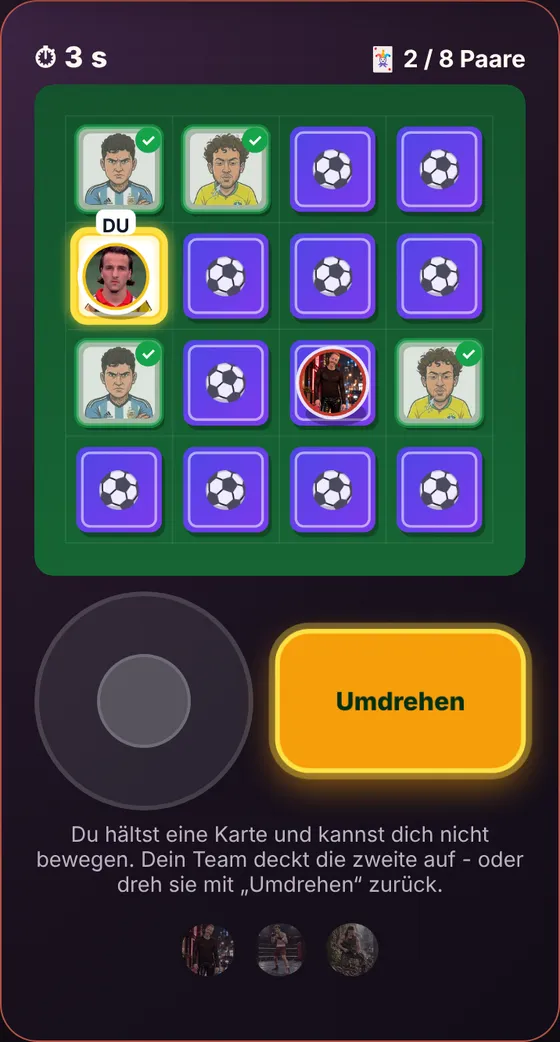
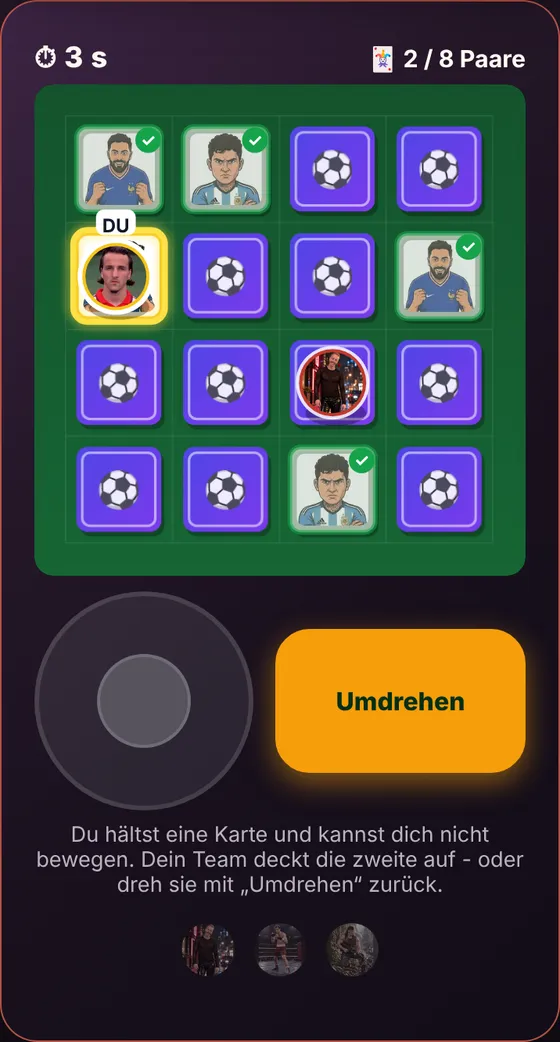
v386: Memory: fluessigerer Joystick (schneller auf Tempo, Kartenrueckseiten vorgezeichnet, keine Dauer-Animation), Aufdecken-Knopf ohne gelben Rand, Screenshots neu
Claude-Session: https://claude.ai/code/session_01Bq3j1UmgmmQRjdUKFtX7an

diff --git a/spiele/memory/spiel.js b/spiele/memory/spiel.js
@@ -41,7 +41,7 @@ const STANDARD_DRILLINGE = 6;
 // Spalten je nach Kartenzahl: 4 bei Paaren, bei Drillingen 5/6/6 (15/18/21 Karten)
 function spaltenFuer(anzahl) { return anzahl === 15 ? 5 : anzahl === 18 || anzahl === 21 ? 6 : SPALTEN; }
 const MOTIVE = 22;            // bilder/memory/f01.webp ... f22.webp
-const BILD_VERSION = "385";
+const BILD_VERSION = "386";
 const TEMPO = 2.7;            // Zellen pro Sekunde
 const KARTE = 0.8;            // Kartenkantenlänge in Zellen
 const FIGUR_R = 0.3;          // Figurenradius in Zellen
@@ -906,7 +906,10 @@ function baueSpielfeld(anordnung) {
   const knopf = $("mm-aktion");
   const hinweis = $("mm-hinweis");
   const kreuz = $("mm-kreuz");
-  const ctx = canvas.getContext("2d");
+  let ctx = canvas.getContext("2d");
+  const hauptCtx = ctx;
+  let rueckSprite = null;       // einmal vorgezeichnete Kartenrückseite (schneller als jedes Bild neu zu malen)
+  const SPR_RAND = 6;
   const ac = new AbortController();
   const sig = { signal: ac.signal };
 
@@ -951,6 +954,7 @@ function baueSpielfeld(anordnung) {
     canvas.style.width = W + "px";
     canvas.style.height = H + "px";
     ctx.setTransform(dpr, 0, 0, dpr, 0, 0);
+    baueRueckSprite();
     gezeichnetKey = "";
   }
 
@@ -1130,6 +1134,39 @@ function baueSpielfeld(anordnung) {
     ctx.arcTo(px, py, px + w, py, r);
     ctx.closePath();
   }
+  function zeichneRueckseite(px, py, s, r) {
+    ctx.fillStyle = "rgba(0,0,0,0.28)";
+    rundRechteck(px + 2, py + 3, s, s, r);
+    ctx.fill();
+    const g = ctx.createLinearGradient(px, py, px + s, py + s);
+    g.addColorStop(0, "#4f46e5");
+    g.addColorStop(1, "#7c3aed");
+    ctx.fillStyle = g;
+    rundRechteck(px, py, s, s, r);
+    ctx.fill();
+    ctx.strokeStyle = "rgba(255,255,255,0.55)";
+    ctx.lineWidth = Math.max(1.5, s * 0.03);
+    rundRechteck(px + s * 0.07, py + s * 0.07, s * 0.86, s * 0.86, r * 0.7);
+    ctx.stroke();
+    ctx.fillStyle = "rgba(255,255,255,0.9)";
+    ctx.font = `${Math.round(s * 0.42)}px system-ui, "Apple Color Emoji", "Segoe UI Emoji", sans-serif`;
+    ctx.textAlign = "center";
+    ctx.textBaseline = "middle";
+    ctx.fillText("⚽", px + s / 2, py + s / 2 + s * 0.02);
+  }
+  function baueRueckSprite() {
+    const dpr = window.devicePixelRatio || 1;
+    const sz = KARTE * c;
+    const sc = document.createElement("canvas");
+    sc.width = Math.ceil((sz + 2 * SPR_RAND) * dpr);
+    sc.height = sc.width;
+    const sctx = sc.getContext("2d");
+    sctx.setTransform(dpr, 0, 0, dpr, 0, 0);
+    ctx = sctx;
+    zeichneRueckseite(SPR_RAND, SPR_RAND, sz, sz * 0.13);
+    ctx = hauptCtx;
+    rueckSprite = sc;
+  }
   function zeichneKarte(idx, z, lage) {
     const sp = idx % SPALTEN, ze = Math.floor(idx / SPALTEN);
     const s = KARTE * c;
@@ -1139,27 +1176,13 @@ function baueSpielfeld(anordnung) {
     const besitzer = z.offen.get(idx);
     const offen = gefunden || besitzer !== undefined;
     ctx.save();
-    // Schatten
-    ctx.fillStyle = "rgba(0,0,0,0.28)";
-    rundRechteck(px + 2, py + 3, s, s, r);
-    ctx.fill();
     if (!offen) {
-      const g = ctx.createLinearGradient(px, py, px + s, py + s);
-      g.addColorStop(0, "#4f46e5");
-      g.addColorStop(1, "#7c3aed");
-      ctx.fillStyle = g;
-      rundRechteck(px, py, s, s, r);
-      ctx.fill();
-      ctx.strokeStyle = "rgba(255,255,255,0.55)";
-      ctx.lineWidth = Math.max(1.5, s * 0.03);
-      rundRechteck(px + s * 0.07, py + s * 0.07, s * 0.86, s * 0.86, r * 0.7);
-      ctx.stroke();
-      ctx.fillStyle = "rgba(255,255,255,0.9)";
-      ctx.font = `${Math.round(s * 0.42)}px system-ui, "Apple Color Emoji", "Segoe UI Emoji", sans-serif`;
-      ctx.textAlign = "center";
-      ctx.textBaseline = "middle";
-      ctx.fillText("⚽", px + s / 2, py + s / 2 + s * 0.02);
+      if (rueckSprite) ctx.drawImage(rueckSprite, px - SPR_RAND, py - SPR_RAND, s + 2 * SPR_RAND, s + 2 * SPR_RAND);
+      else zeichneRueckseite(px, py, s, r);
     } else {
+      ctx.fillStyle = "rgba(0,0,0,0.28)";
+      rundRechteck(px + 2, py + 3, s, s, r);
+      ctx.fill();
       if (gefunden) ctx.globalAlpha = 0.62;
       ctx.fillStyle = "#fffdf5";
       rundRechteck(px, py, s, s, r);
@@ -1308,8 +1331,9 @@ function baueSpielfeld(anordnung) {
       let dx = (halten.r ? 1 : 0) - (halten.l ? 1 : 0) + joy.x;
       let dy = (halten.d ? 1 : 0) - (halten.u ? 1 : 0) + joy.y;
       const len = Math.hypot(dx, dy);
-      if (len > 0.15) {
-        const tempo = TEMPO * Math.min(1, len);
+      if (len > 0.08) {
+        // schnell auf volles Tempo: schon ab ca. 40 % Auslenkung
+        const tempo = TEMPO * Math.min(1, 0.35 + len * 1.6);
         x += (dx / len) * tempo * dt;
         y += (dy / len) * tempo * dt;
         x = Math.max(0.2, Math.min(SPALTEN - 0.2, x));

diff --git a/sw.js b/sw.js
@@ -4,7 +4,7 @@
 // Nur dann wirft der Browser den alten Zwischenspeicher weg und alle Spieler
 // bekommen zuverlässig die neue Version. Das ist der einzige Handgriff, den man
 // nach dem Bearbeiten von Dateien nicht vergessen darf.
-const CACHE_NAME = "trollhouse-v385";
+const CACHE_NAME = "trollhouse-v386";
 
 const DATEIEN = [
   "./",
@@ -46,12 +46,12 @@ const DATEIEN = [
   "spiele/groessenvergleich/objekte.js",
   "spiele/groessenvergleich/silhouetten.js",
   "spiele/knobeln/spiel.js",
-  "spiele/anleitungen.js?v=385",
-  "spiele/anleitungen-daten.js?v=385",
+  "spiele/anleitungen.js?v=386",
+  "spiele/anleitungen-daten.js?v=386",
   "spiele/doppelkopf/spiel.js",
   "spiele/tetris/spiel.js",
   "spiele/doppelkopf/regeln.js",
-  "spiele/doppelkopf/karten.js?v=385",
+  "spiele/doppelkopf/karten.js?v=386",
   "spiele/laenderumrisse/spiel.js",
   "spiele/wo-liegts/spiel.js",
   "spiele/wo-liegts/staedte.js",
@@ -98,28 +98,28 @@ const DATEIEN = [
   "bilder/merks-dir-karten.webp",
   "bilder/passgenau-bloecke.webp",
   "bilder/memory-karten.webp",
-  "bilder/memory/f01.webp?v=385",
-  "bilder/memory/f02.webp?v=385",
-  "bilder/memory/f03.webp?v=385",
-  "bilder/memory/f04.webp?v=385",
-  "bilder/memory/f05.webp?v=385",
-  "bilder/memory/f06.webp?v=385",
-  "bilder/memory/f07.webp?v=385",
-  "bilder/memory/f08.webp?v=385",
-  "bilder/memory/f09.webp?v=385",
-  "bilder/memory/f10.webp?v=385",
-  "bilder/memory/f11.webp?v=385",
-  "bilder/memory/f12.webp?v=385",
-  "bilder/memory/f13.webp?v=385",
-  "bilder/memory/f14.webp?v=385",
-  "bilder/memory/f15.webp?v=385",
-  "bilder/memory/f16.webp?v=385",
-  "bilder/memory/f17.webp?v=385",
-  "bilder/memory/f18.webp?v=385",
-  "bilder/memory/f19.webp?v=385",
-  "bilder/memory/f20.webp?v=385",
-  "bilder/memory/f21.webp?v=385",
-  "bilder/memory/f22.webp?v=385",
+  "bilder/memory/f01.webp?v=386",
+  "bilder/memory/f02.webp?v=386",
+  "bilder/memory/f03.webp?v=386",
+  "bilder/memory/f04.webp?v=386",
+  "bilder/memory/f05.webp?v=386",
+  "bilder/memory/f06.webp?v=386",
+  "bilder/memory/f07.webp?v=386",
+  "bilder/memory/f08.webp?v=386",
+  "bilder/memory/f09.webp?v=386",
+  "bilder/memory/f10.webp?v=386",
+  "bilder/memory/f11.webp?v=386",
+  "bilder/memory/f12.webp?v=386",
+  "bilder/memory/f13.webp?v=386",
+  "bilder/memory/f14.webp?v=386",
+  "bilder/memory/f15.webp?v=386",
+  "bilder/memory/f16.webp?v=386",
+  "bilder/memory/f17.webp?v=386",
+  "bilder/memory/f18.webp?v=386",
+  "bilder/memory/f19.webp?v=386",
+  "bilder/memory/f20.webp?v=386",
+  "bilder/memory/f21.webp?v=386",
+  "bilder/memory/f22.webp?v=386",
   "bilder/fussball-auktion/spieler-de-2.png?v=335",
   "bilder/fussball-auktion/spieler-de-3.png?v=335",
   "bilder/fussball-auktion/spieler-de-4.png?v=335",

diff --git a/spiele/anleitungen.js b/spiele/anleitungen.js
@@ -3,7 +3,7 @@
 //  Wird erst beim Klick auf "Spiele" (Startseite) geladen.
 // ============================================================================
 import { SPIELE } from "./register.js?v=335";
-import { ANLEITUNGEN, szene } from "./anleitungen-daten.js?v=385";
+import { ANLEITUNGEN, szene } from "./anleitungen-daten.js?v=386";
 
 const esc = (s) => String(s).replace(/&/g, "&amp;").replace(/</g, "&lt;").replace(/>/g, "&gt;");
 const fett = (s) => esc(s).replace(/\*\*(.+?)\*\*/g, "<strong>$1</strong>");
@@ -61,7 +61,7 @@ export function oeffneAnleitungen(startId = null) {
       </div>
       <div class="anl-titel"><span class="anl-titel-sym">${symbol(sp)}</span><h2>${esc(sp.name)}</h2></div>
       <div class="anl-folie" id="anl-folie">
-        <div class="anl-bildrahmen">${f.ohneFoto ? szene(sp.farbe, f.s()) : `<img class="anl-foto" src="bilder/anleitung/${id}-${seite + 1}.webp?v=385" alt="Screenshot: ${esc(f.t)}" loading="eager">`}</div>
+        <div class="anl-bildrahmen">${f.ohneFoto ? szene(sp.farbe, f.s()) : `<img class="anl-foto" src="bilder/anleitung/${id}-${seite + 1}.webp?v=386" alt="Screenshot: ${esc(f.t)}" loading="eager">`}</div>
         <h3>${esc(f.t)}</h3>
         ${f.x.map((a) => `<p>${fett(a)}</p>`).join("")}
       </div>

diff --git a/stil.css b/stil.css
@@ -3529,13 +3529,10 @@ body.tt-aktiv:has(#tt-spiel-screen:not([hidden])) #spiel-kopf-titel { display: n
   box-shadow: none; transition: background 0.12s, box-shadow 0.12s, color 0.12s;
 }
 .mm-aktion.bereit {
-  background: #22c55e; color: #052e16; border-color: #fde047;
-  box-shadow: 0 0 0 4px rgba(253, 224, 71, 0.35), 0 8px 22px rgba(34, 197, 94, 0.55);
-  animation: mm-puls 1.1s ease-in-out infinite;
+  background: #22c55e; color: #052e16; border-color: #22c55e;
+  box-shadow: 0 6px 18px rgba(34, 197, 94, 0.5);
 }
-.mm-aktion.bereit.zu { background: #f59e0b; box-shadow: 0 0 0 4px rgba(253, 224, 71, 0.35), 0 8px 22px rgba(245, 158, 11, 0.55); }
-@keyframes mm-puls { 50% { transform: scale(1.04); } }
-@media (prefers-reduced-motion: reduce) { .mm-aktion.bereit { animation: none; } }
+.mm-aktion.bereit.zu { background: #f59e0b; border-color: #f59e0b; box-shadow: 0 6px 18px rgba(245, 158, 11, 0.5); }
 
 /* Doppelkopf: gemalte Karten */
 img.dk-karte-bild { -webkit-user-drag: none; user-select: none; pointer-events: none; filter: drop-shadow(0 1px 1px rgba(0,0,0,.35)); }

diff --git a/spiele/anleitungen-daten.js b/spiele/anleitungen-daten.js
@@ -6,7 +6,7 @@
 //  Spiels kommt aus szene(). Texte: **fett** wird hervorgehoben.
 //  Alle Regeln stammen aus dem Code der jeweiligen Spiele.
 // ============================================================================
-import { kartenSvg } from "./doppelkopf/karten.js?v=385";
+import { kartenSvg } from "./doppelkopf/karten.js?v=386";
 
 let zaehler = 0;
 const esc = (s) => String(s).replace(/&/g, "&amp;").replace(/</g, "&lt;").replace(/>/g, "&gt;");

diff --git a/spiele/doppelkopf/spiel.js b/spiele/doppelkopf/spiel.js
@@ -23,7 +23,7 @@ import {
 import { spielerKarte, zeigeDebug, initBereitSystem, escapeHtml, avatarHtml } from "../../kern/ui.js";
 import { speichereWertung } from "../../kern/wertung.js";
 import * as R from "./regeln.js";
-import { kartenSvg, rueckSvg } from "./karten.js?v=385";
+import { kartenSvg, rueckSvg } from "./karten.js?v=386";
 
 const VORBEHALT_ZEIT_MS = 30000;
 const BOT_VB_MS = 1400;

diff --git a/app.js b/app.js
@@ -15,7 +15,7 @@ import {
 // Spiel-Fixes (spiele/<id>/spiel.js) verzoegert oder gar nicht mit.
 import { SPIELE, spielInfo } from "./spiele/register.js?v=335";
 
-export const APP_VERSION = "v385";
+export const APP_VERSION = "v386";
 const appVersion = document.getElementById("app-version");
 appVersion.textContent = "Version " + APP_VERSION;
 

diff --git a/spiele/register.js b/spiele/register.js
@@ -18,7 +18,7 @@
 // in der Olympiade trotz Fix in v201/v202 teils noch bestehen lassen.
 // WICHTIG: bei jedem Versionssprung hier UND in app.js (Import von
 // register.js) mit hochzaehlen.
-const SPIEL_VERSION = "385";
+const SPIEL_VERSION = "386";
 
 export const SPIELE = [
   {
